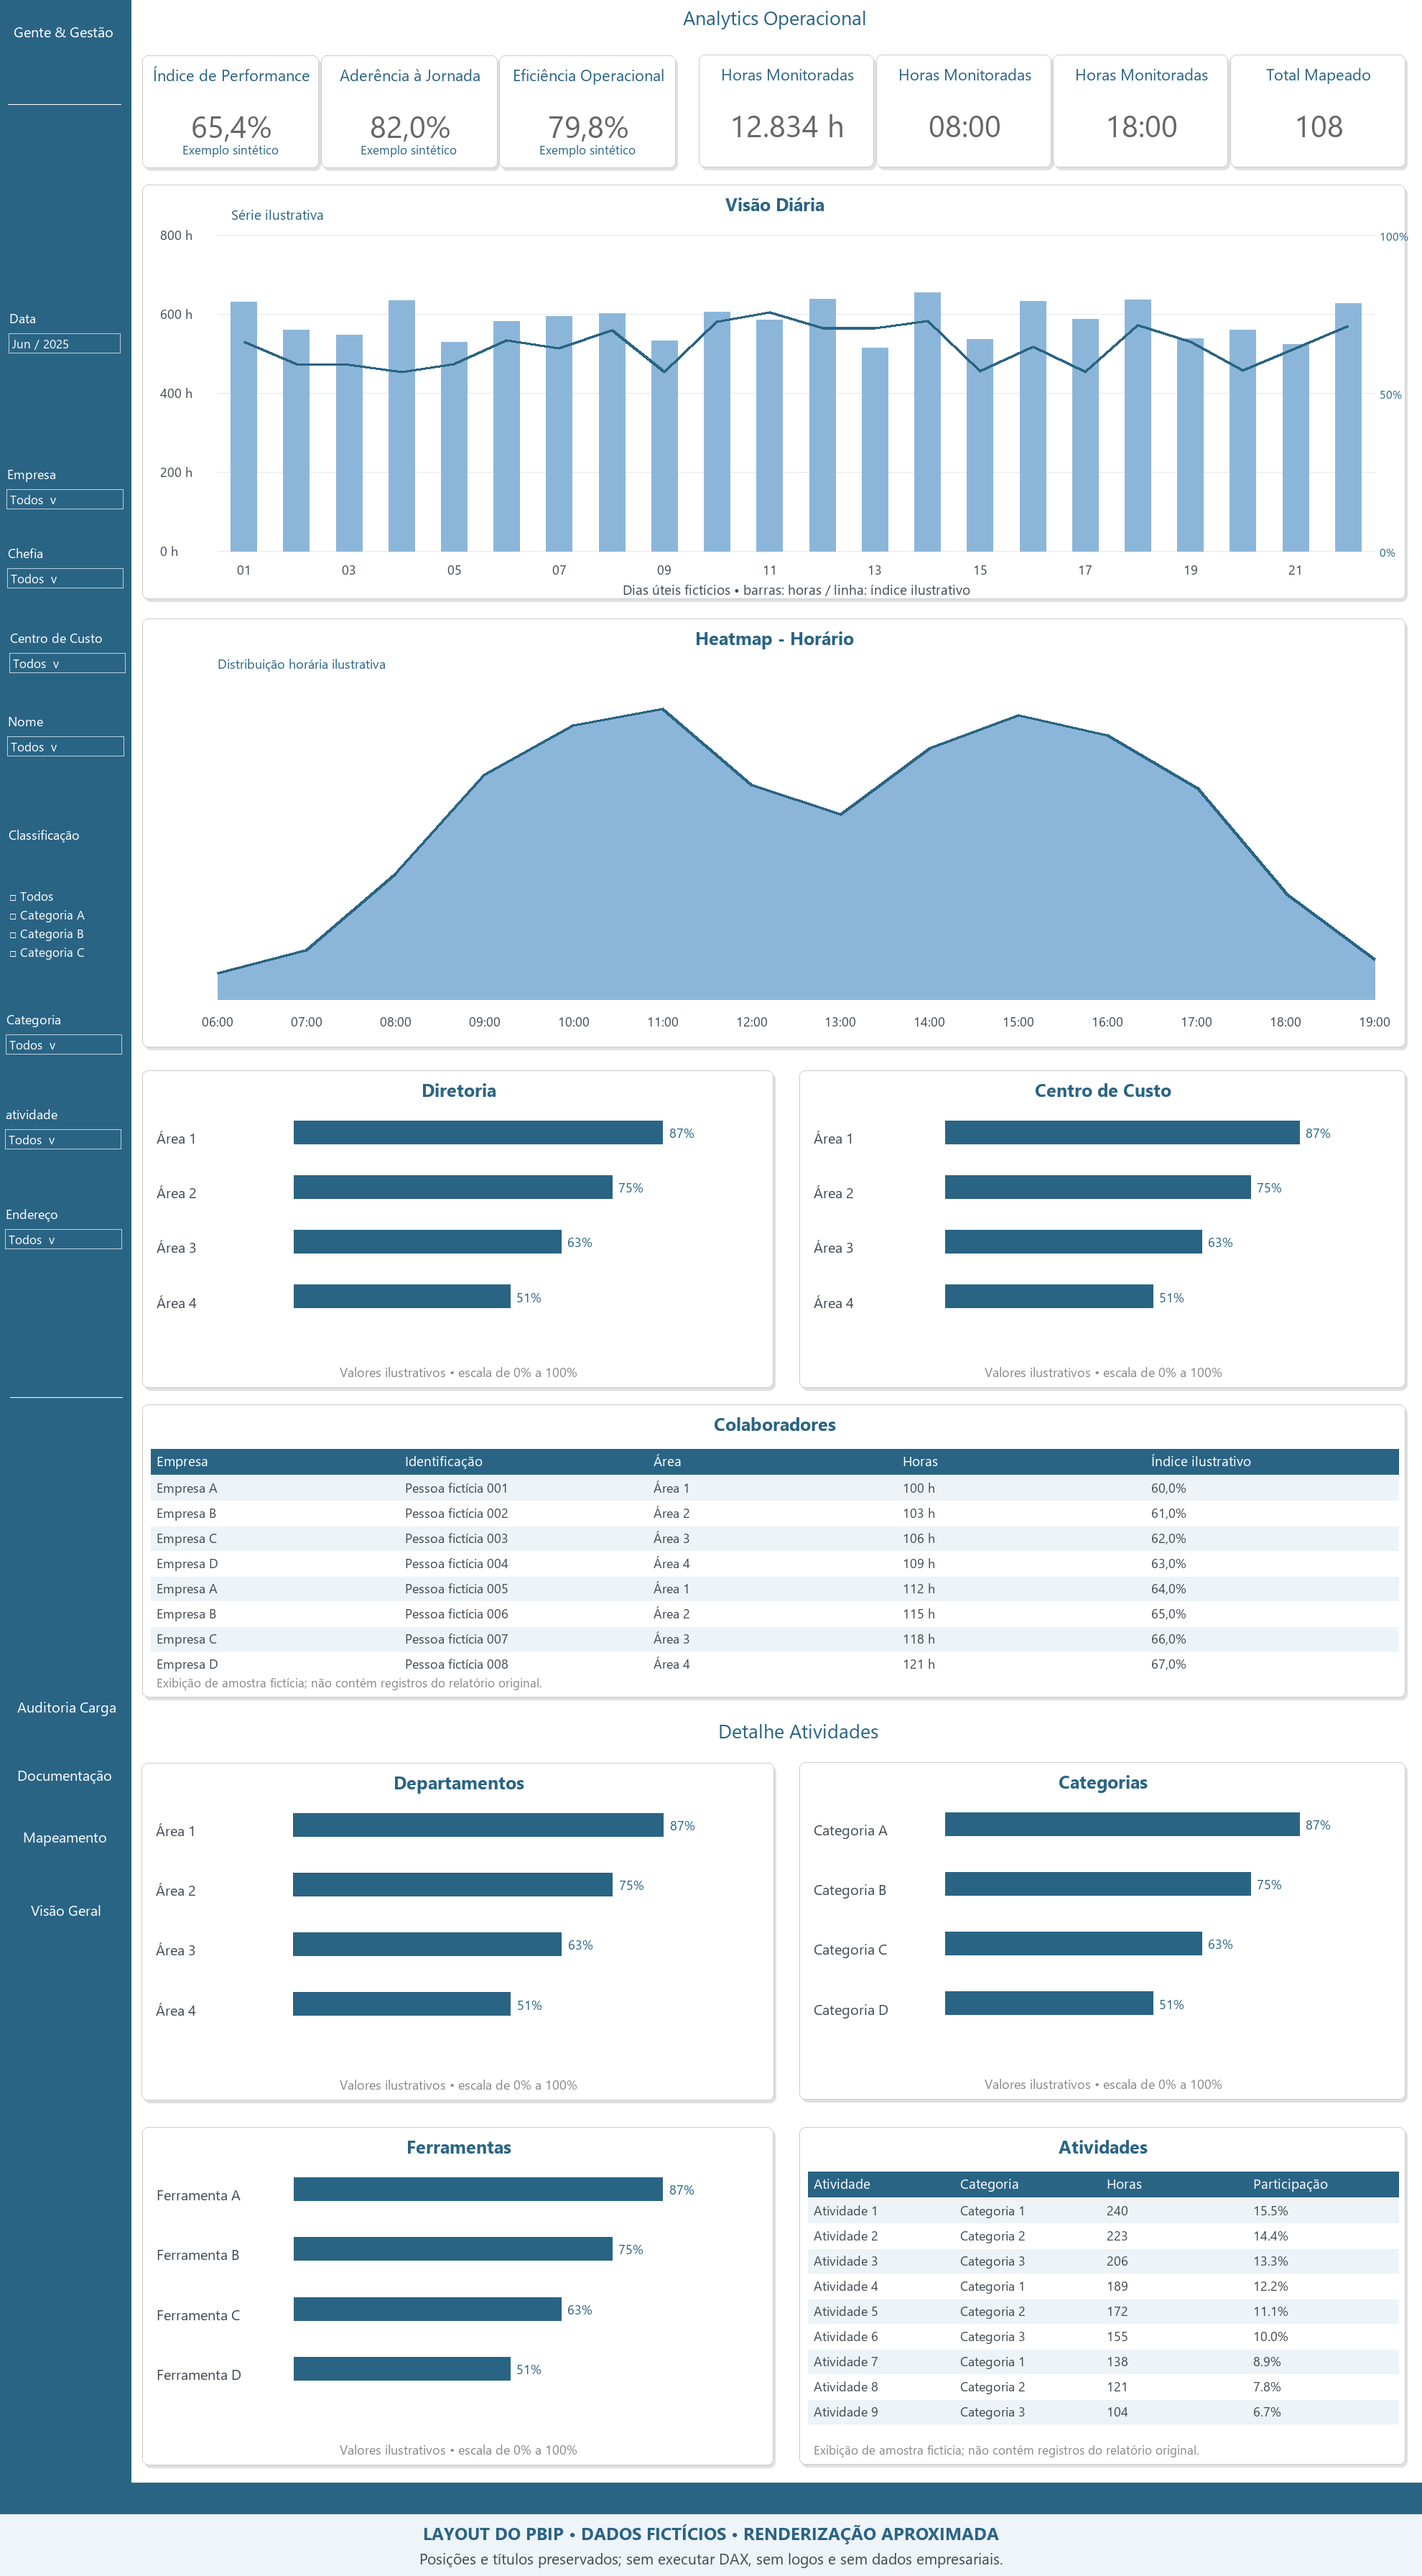
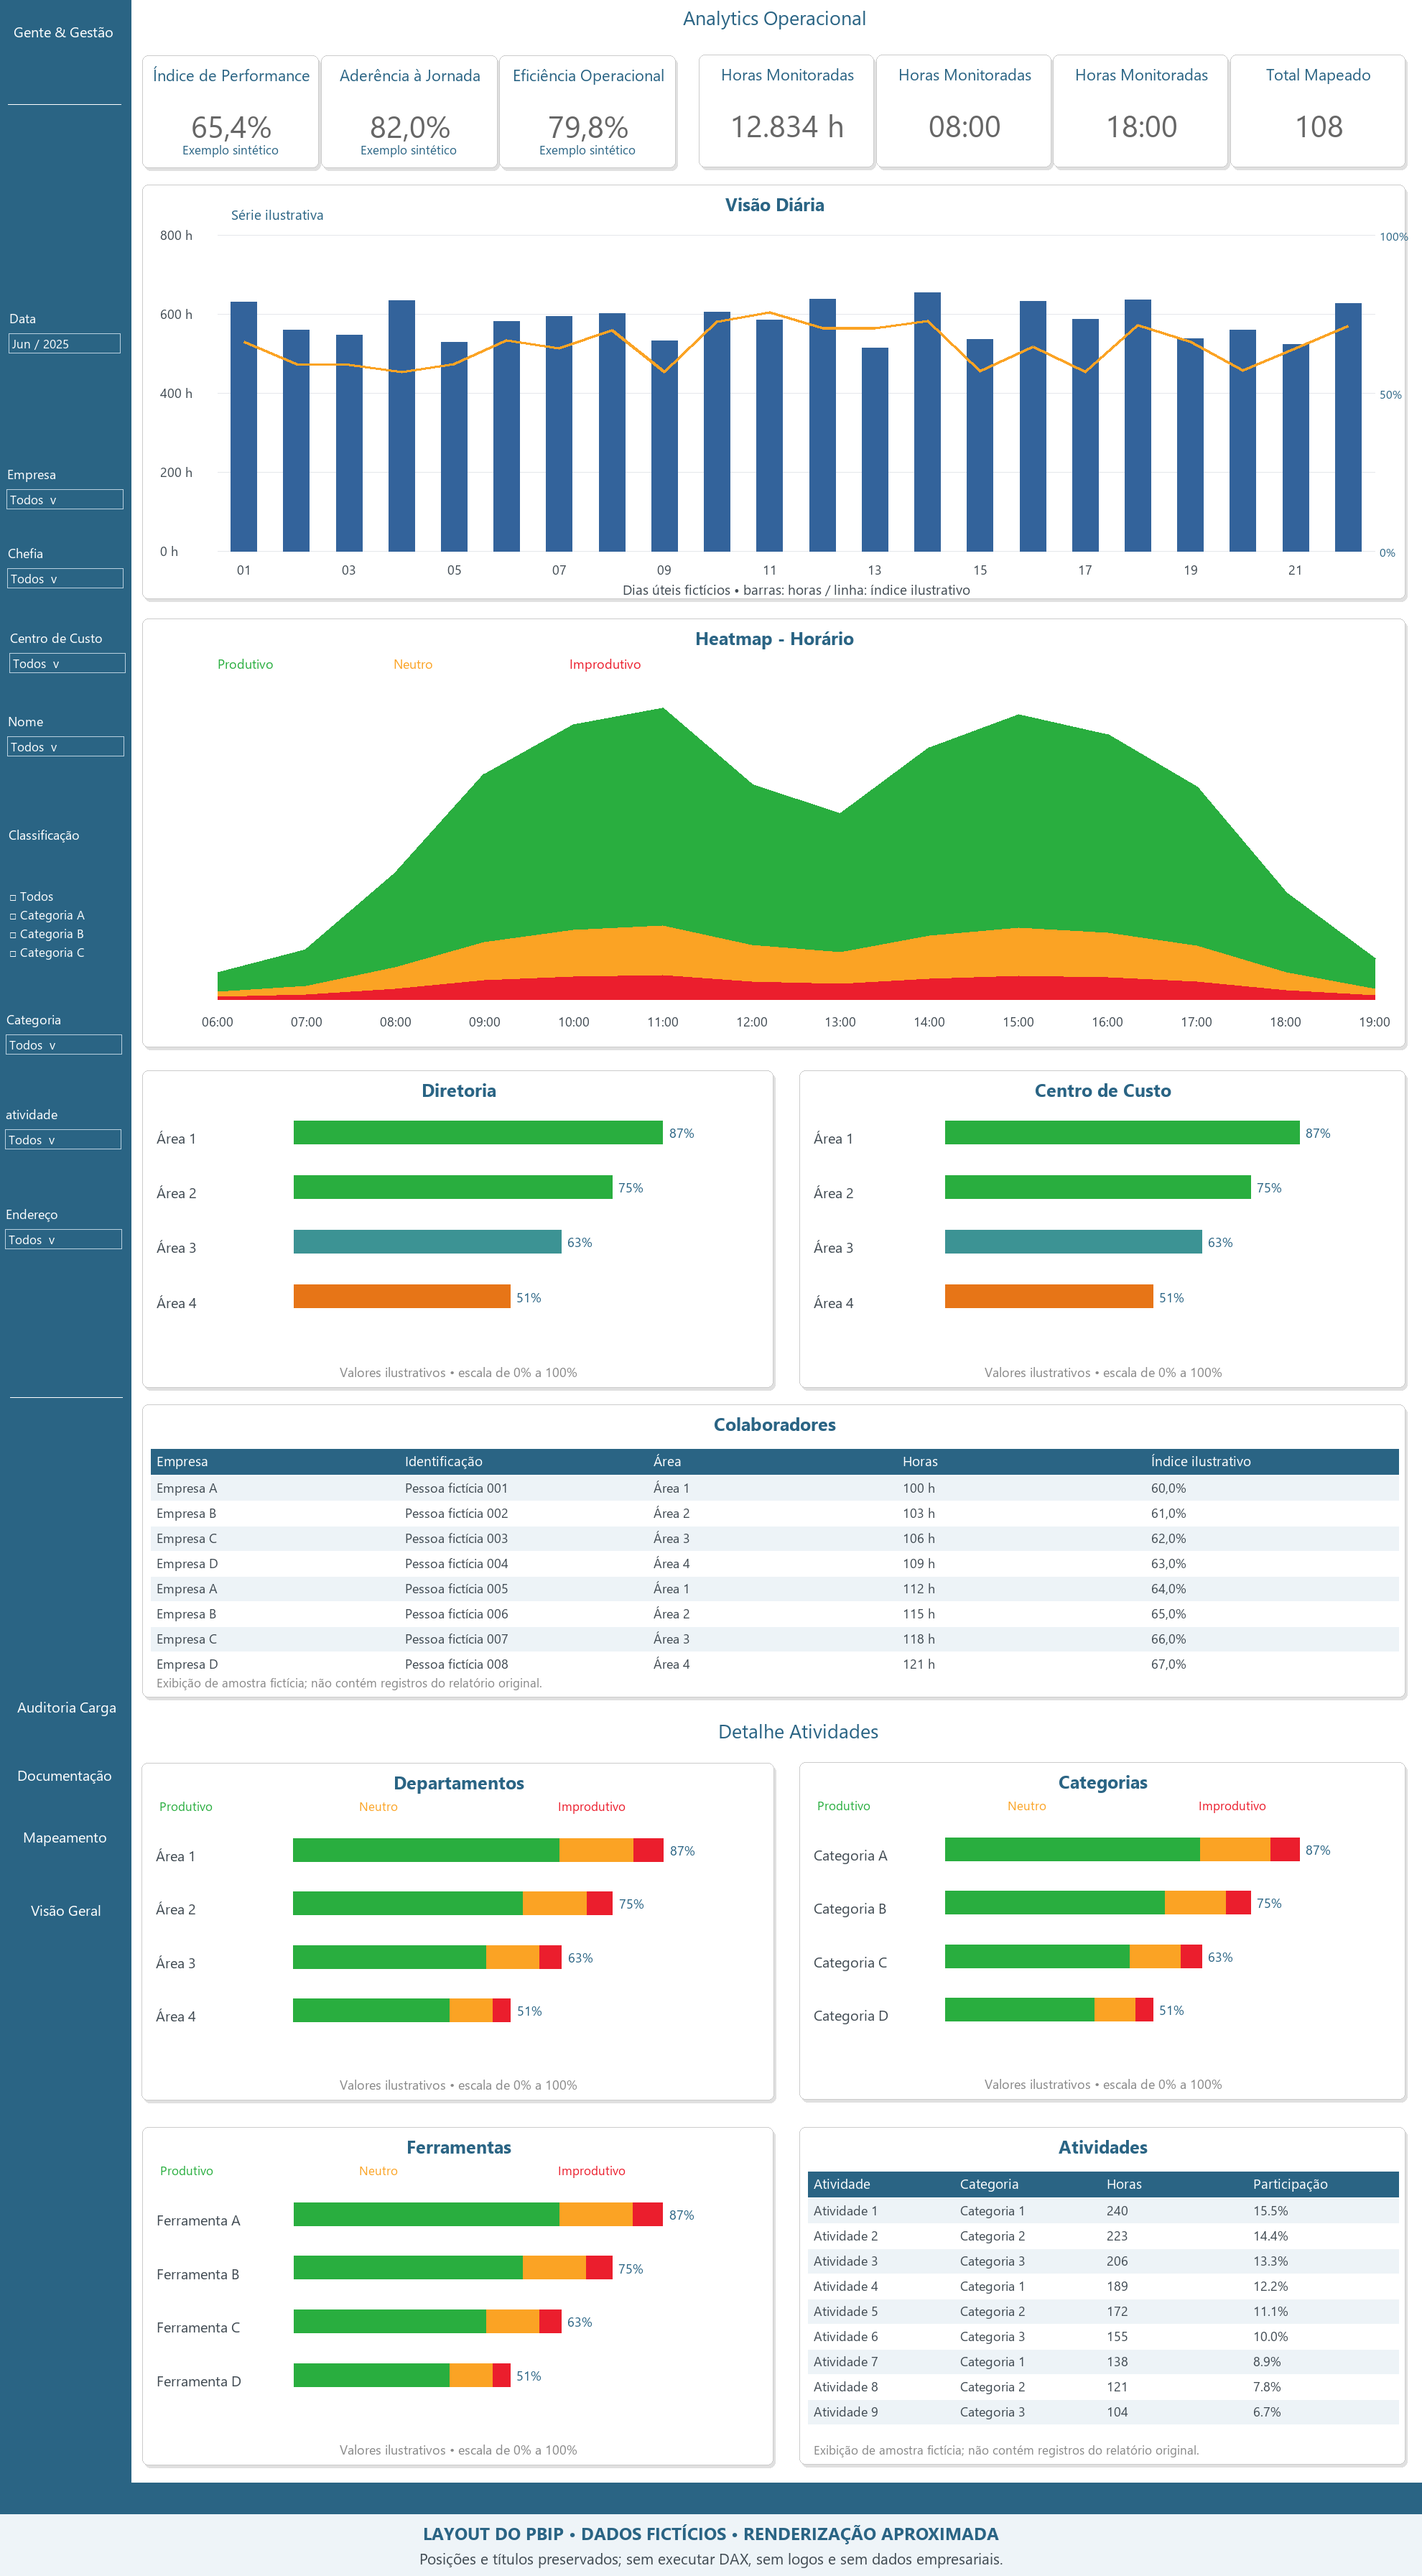
Corrige cores das previas conforme series e classificacoes do PBIX

diff --git a/scripts/gerar_previa_bi.py b/scripts/gerar_previa_bi.py
@@ -80,34 +80,49 @@ def render(page):
    if t=='hundredPercentStackedAreaChart':
     # Two stacked bands, preserving the original visual type.
     points=[(px+i*pw/3,py+ph*(1-a/100)) for i,a in enumerate(sample['mapping_pct'])]
-    d.polygon([(px,py)]+[(px+pw,py)]+list(reversed(points)),fill='#cccccc')
-    d.polygon(points+[(px+pw,py+ph),(px,py+ph)],fill=BLUE)
+    d.polygon([(px,py)]+[(px+pw,py)]+list(reversed(points)),fill='#EB1E2D')
+    d.polygon(points+[(px+pw,py+ph),(px,py+ph)],fill='#29AE3F')
     for i,(cx,cy) in enumerate(points):txt(max(px+50,min(px+pw-50,cx)),cy+ph/3,str(sample['mapping_pct'][i]).replace('.',',')+'%',22,'white',True,True);txt(max(px+70,min(px+pw-70,cx)),py+ph+15,sample['companies'][i],19,center=True)
-    txt(px,py-25,'Mapeados',18,BLUE);txt(px+190,py-25,'Não mapeados',18,'#777777')
+    txt(px,py-25,'Mapeados',18,'#29AE3F');txt(px+190,py-25,'Não mapeados',18,'#EB1E2D')
     for val in [0,50,100]:txt(px-73,py+ph*(1-val/100)-10,f'{val}%',17)
    elif t=='lineStackedColumnComboChart':
     for k in [0,200,400,600,800]:
      yy=py+ph*(1-k/800);d.line((px,yy,px+pw,yy),fill=GREY);txt(px-80,yy-13,f'{k} h',18)
     pts=[]
     for i,a in enumerate(sample['daily_hours']):
-     cx=px+(i+.5)*pw/22;top=py+ph*(1-a/800);d.rectangle((cx-18,top,cx+18,py+ph),fill=LIGHT)
+     cx=px+(i+.5)*pw/22;top=py+ph*(1-a/800);d.rectangle((cx-18,top,cx+18,py+ph),fill='#33639B')
      pts.append((cx,py+ph*(1-sample['daily_index'][i]/100)))
      if i%2==0:txt(cx,py+ph+13,str(i+1).zfill(2),18,center=True)
-    d.line(pts,fill=BLUE,width=4)
+    d.line(pts,fill='#FBA324',width=4)
     for k in [0,50,100]:txt(px+pw+7,py+ph*(1-k/100)-10,f'{k}%',16,BLUE)
     txt(px+pw/2,py+ph+40,'Dias úteis fictícios • barras: horas / linha: índice ilustrativo',19,center=True)
    elif t=='areaChart':
     vals=[.08,.15,.38,.68,.83,.88,.65,.56,.76,.86,.8,.64,.32,.12]
     pts=[(px+i*pw/13,py+ph*(1-a)) for i,a in enumerate(vals)]
-    d.polygon([(px,py+ph)]+pts+[(px+pw,py+ph)],fill=LIGHT);d.line(pts,fill=BLUE,width=4)
+    for factor,col in [(1.0,'#29AE3F'),(.25,'#FBA324'),(.08,'#EB1E2D')]:
+     series=[(px+i*pw/13,py+ph*(1-a*factor)) for i,a in enumerate(vals)]
+     d.polygon([(px,py+ph)]+series+[(px+pw,py+ph)],fill=col)
+     d.line(series,fill=col,width=3)
     for i in range(14):txt(px+i*pw/13,py+ph+18,f'{i+6:02}:00',18,center=True)
-    txt(px,py-20,'Distribuição horária ilustrativa',18,BLUE)
+    for i,(name,col) in enumerate([('Produtivo','#29AE3F'),('Neutro','#FBA324'),('Improdutivo','#EB1E2D')]):
+     txt(px+i*245,py-20,name,18,col)
    else:
     labels=(['Área 1','Área 2','Área 3','Área 4'] if 'Centro' in label or label in ['Diretoria','Departamentos'] else ['Categoria A','Categoria B','Categoria C','Categoria D'])
     if label=='Ferramentas':labels=['Ferramenta A','Ferramenta B','Ferramenta C','Ferramenta D']
+    if t=='barChart':
+     legend=[('Mapeado','#94BCC4'),('Não mapeado','#FBA324'),('Máq. pessoal',BLUE),('Sem máquina','#757E8B')] if mapping else [('Produtivo','#29AE3F'),('Neutro','#FBA324'),('Improdutivo','#EB1E2D')]
+     for k,(name,col) in enumerate(legend):txt(x+25+k*(vw-50)/len(legend),y+48,name,17,col)
+     py+=35;ph-=35
     for i,lab in enumerate(labels):
      yy=py+i*ph/4;txt(x+20,yy+10,lab,20);start=x+vw*.24;value=sample['mapping_pct'][i] if mapping else 87-i*12;length=(vw*.67)*value/100
-     d.rectangle((start,yy,start+length,yy+32),fill=BLUE)
+     if t=='barChart':
+      pieces=[(.78,'#94BCC4'),(.10,'#FBA324'),(.06,BLUE),(.06,'#757E8B')] if mapping else [(.72,'#29AE3F'),(.20,'#FBA324'),(.08,'#EB1E2D')]
+      at=start
+      for share,col in pieces:
+       d.rectangle((at,yy,at+length*share,yy+32),fill=col);at+=length*share
+     else:
+      col='#29AE3F' if value>=75 else ('#3C9394' if value>=60 else '#E77517')
+      d.rectangle((start,yy,start+length,yy+32),fill=col)
      txt(start+length+9,yy+4,f'{value:g}%',18,BLUE)
     txt(x+vw/2,y+vh-38,'Valores ilustrativos • escala de 0% a 100%',18,'#888888',center=True)
  # White label outside the original canvas distinguishes reference layout from actual rendering.

diff --git a/docs/visual-bi/cores.md b/docs/visual-bi/cores.md
@@ -1,0 +1,21 @@
+# Cores verificadas no PBIX
+
+As cores abaixo foram conferidas nas propriedades dos visuais do arquivo Produtividade.pbix fornecido. As associações consideram o campo usado no visual; o arquivo também contém formatações antigas para outros campos, que não devem ser tratadas como uma paleta global.
+
+| Uso | Cor |
+|---|---|
+| Lateral e títulos | `#2A6484` |
+| Visão diária: colunas padrão | `#33639B` |
+| Visão diária: linha de performance | `#FBA324` |
+| Classificação: produtivo | `#29AE3F` |
+| Classificação: neutro | `#FBA324` |
+| Classificação: improdutivo | `#EB1E2D` |
+| Mapeamento geral: com sucesso | `#29AE3F` |
+| Mapeamento geral: sem sucesso | `#EB1E2D` |
+| Detalhe de mapeamento: mapeado | `#94BCC4` |
+| Detalhe de mapeamento: não mapeado | `#FBA324` |
+| Detalhe de mapeamento: máquina pessoal | `#2A6484` |
+| Detalhe de mapeamento: sem máquina | `#757E8B` |
+| Formatação por faixa: verde / intermediária / atenção / crítica | `#29AE3F` / `#3C9394` / `#E77517` / `#EB1E2D` |
+
+A prévia utiliza essas cores nos respectivos gráficos. A composição das séries continua ilustrativa; não executa o motor Power BI nem as medidas originais. Cores condicionais dependentes de DAX não foram validadas no Desktop.

diff --git a/docs/galeria.md b/docs/galeria.md
@@ -30,6 +30,10 @@ A página original tem 2.100 × 2.400 unidades de canvas. A organização passa 
 
 O gráfico denominado “Heatmap - Horário” no original é do tipo área no PBIP; a prévia mantém esse tipo e esse título. Os gráficos de detalhamento são esquemáticos, sem reproduzir classificações, pesos ou regras corporativas. Os índices nos cartões são exemplos visuais, não avaliações reais de pessoas.
 
+## Cores do relatório
+
+A paleta foi revisada diretamente no PBIX: linha laranja na visão diária, classificações em verde/amarelo/vermelho e cores específicas para os estados de mapeamento. [Consultar as associações verificadas](visual-bi/cores.md).
+
 ## Duas amostras com propósitos diferentes
 
 - **Prévia do layout:** cenário fictício independente, seed 77, 120 pessoas, documentado em [visual-bi](visual-bi/README.md). Sem vínculo com as medidas originais.
